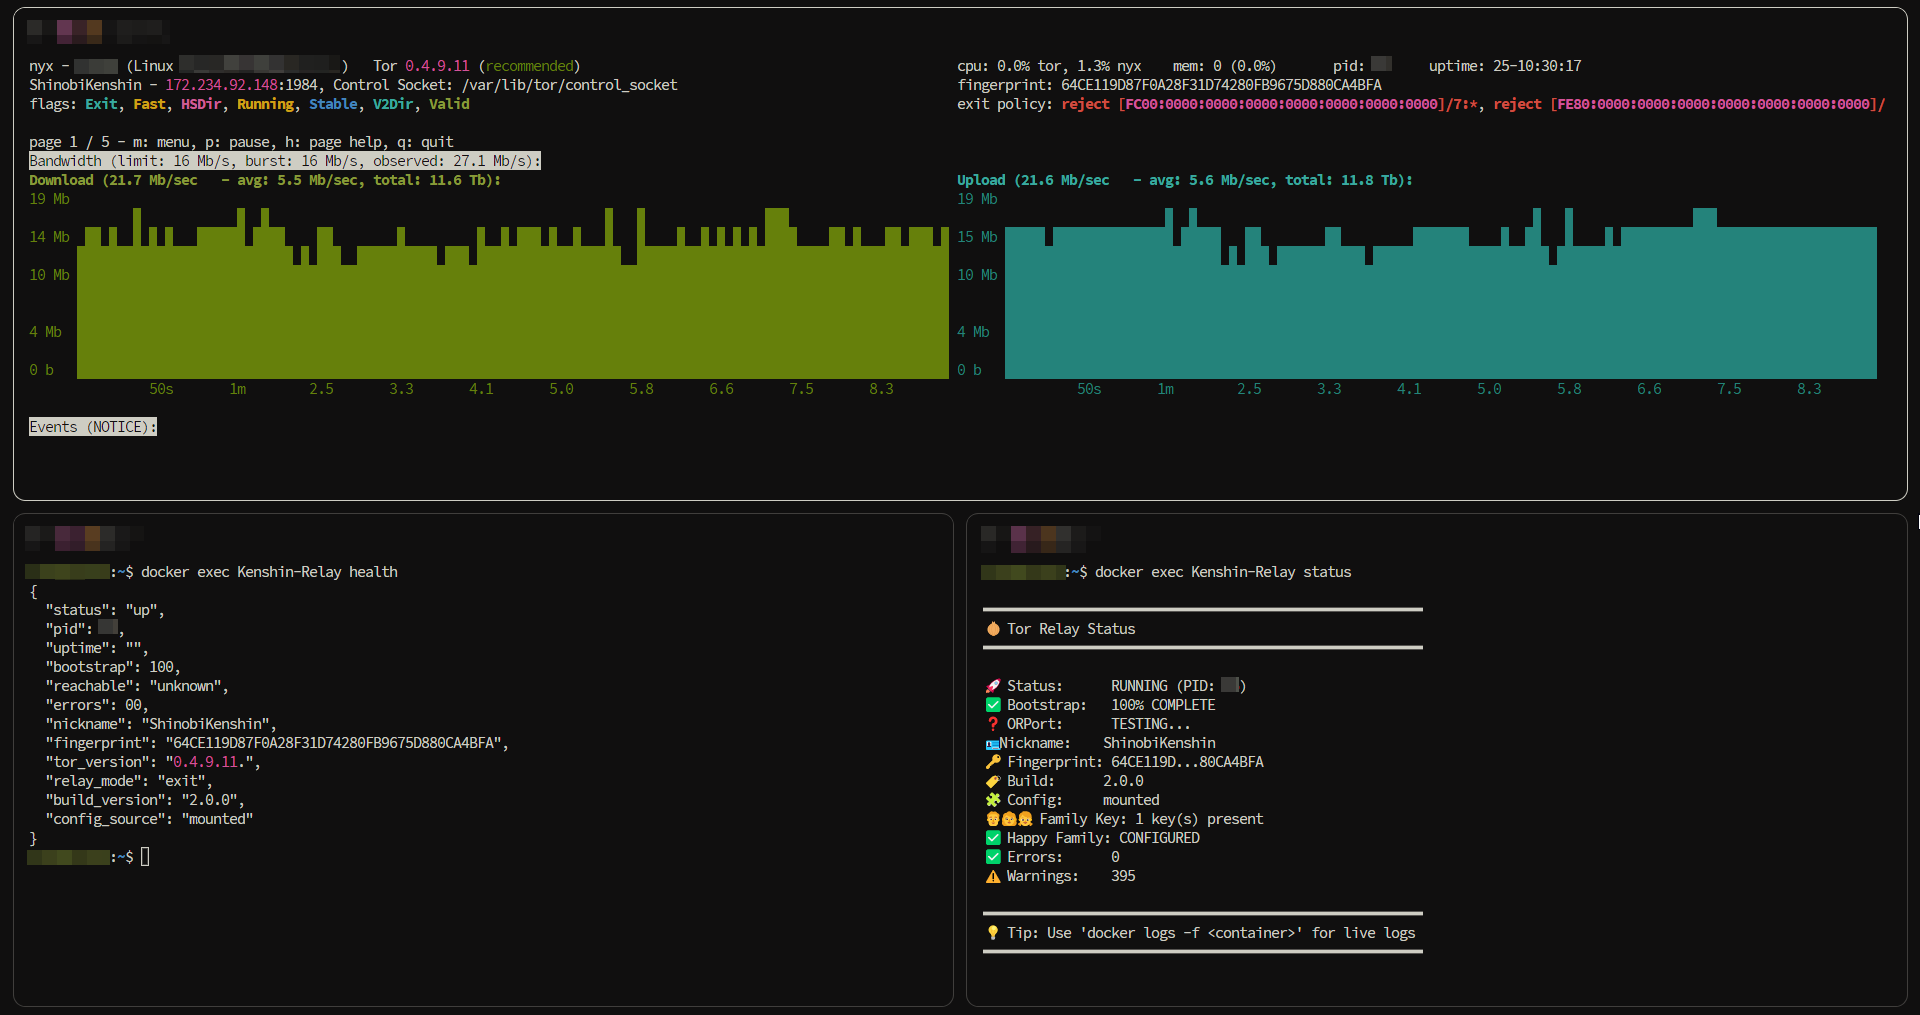
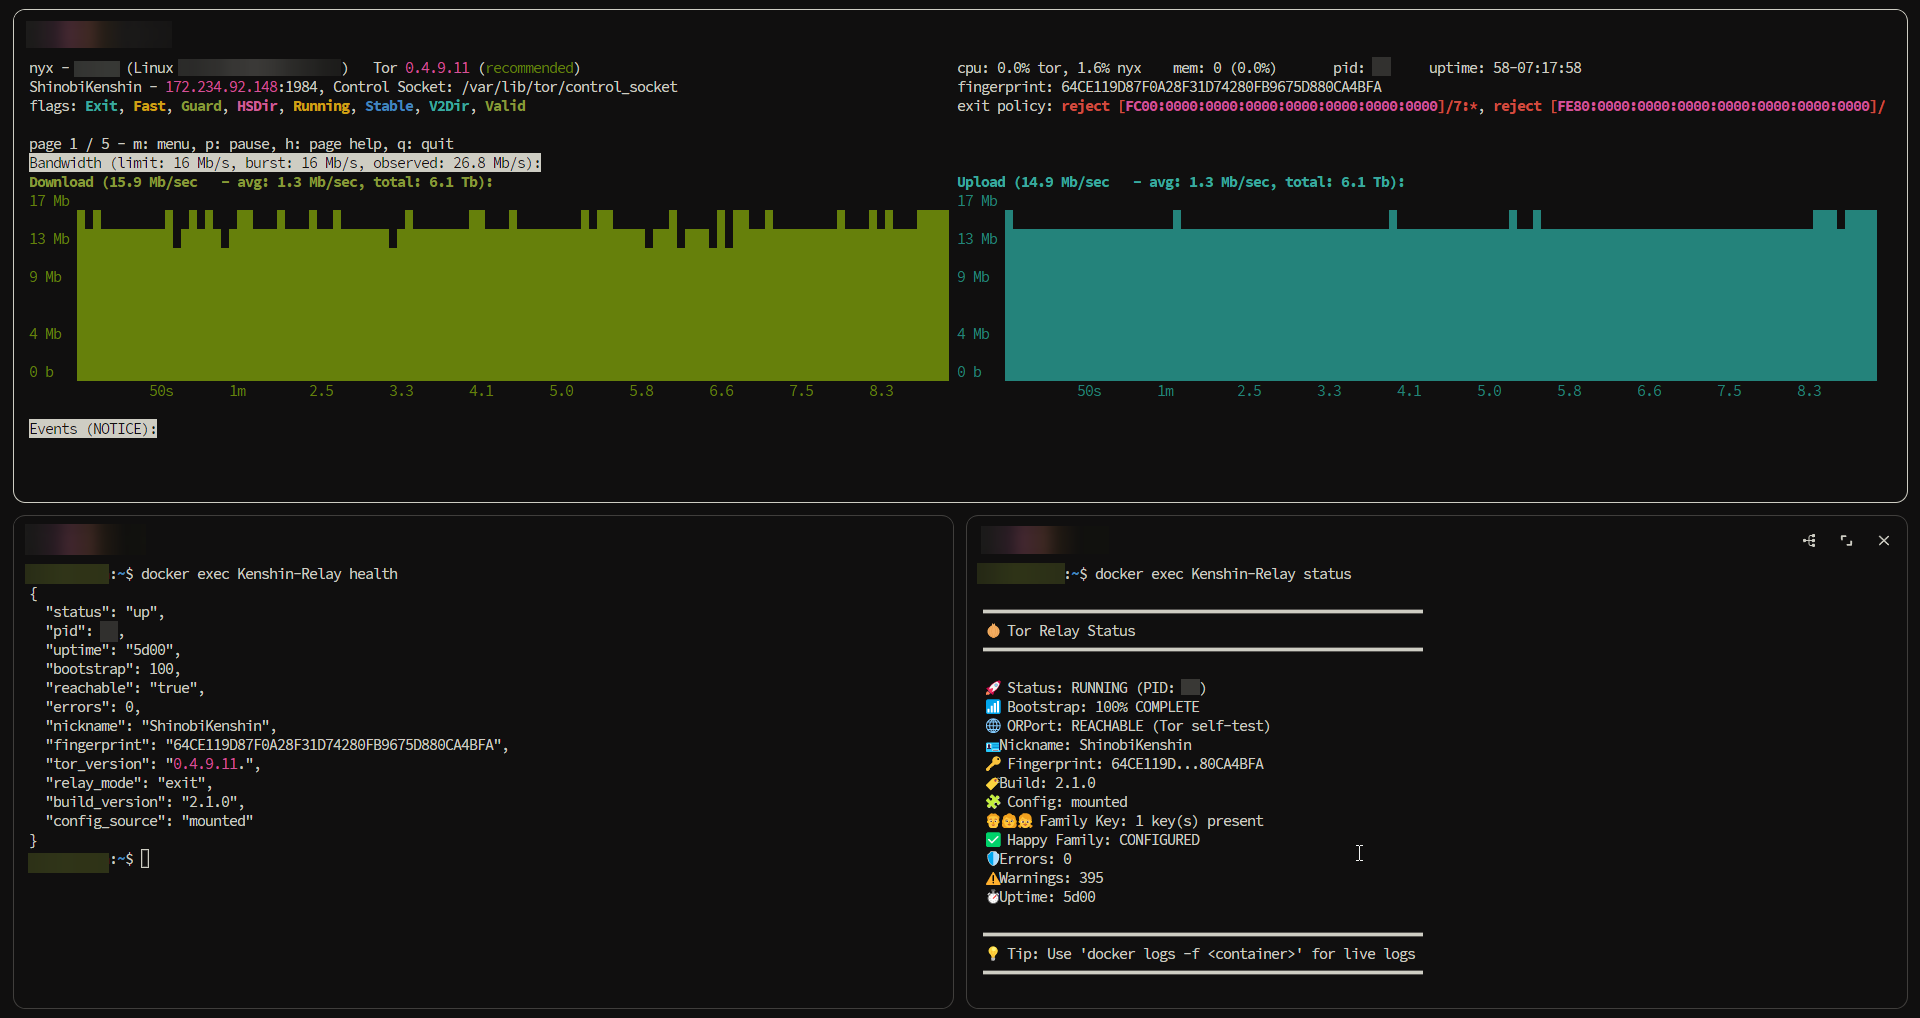
🍱 docs(posts): refresh the Shinobi Relays dashboard

diff --git a/content/posts/tor-relays-project.md b/content/posts/tor-relays-project.md
@@ -83,7 +83,7 @@ A pull is not a unique operator or an active relay. The number is still encourag
 
 These figures combine project release data, my maintained fleet inventory, and public network observations. They do not all prove the same thing. Inventory records intended infrastructure; Onionoo and independent metrics show what the public Tor network can currently observe.
 
-{{< post-figure src="images/posts/tor-relays-project/shinobi-relays-dashboard.jpg" alt="Shinobi Relays dashboard showing fleet health, relay roles, and platform, network, and geographic diversity" class="post-figure--wide" >}}
+{{< post-figure src="images/posts/tor-relays-project/shinobi-relays-dashboard.png" alt="Shinobi Relays dashboard showing fleet health, relay roles, and platform, network, and geographic diversity" class="post-figure--wide" >}}
 The Shinobi Relays overview on 22 July 2026. Public relay roles and consensus state follow Onionoo rather than being hard-coded into the dashboard.
 {{< /post-figure >}}
 
